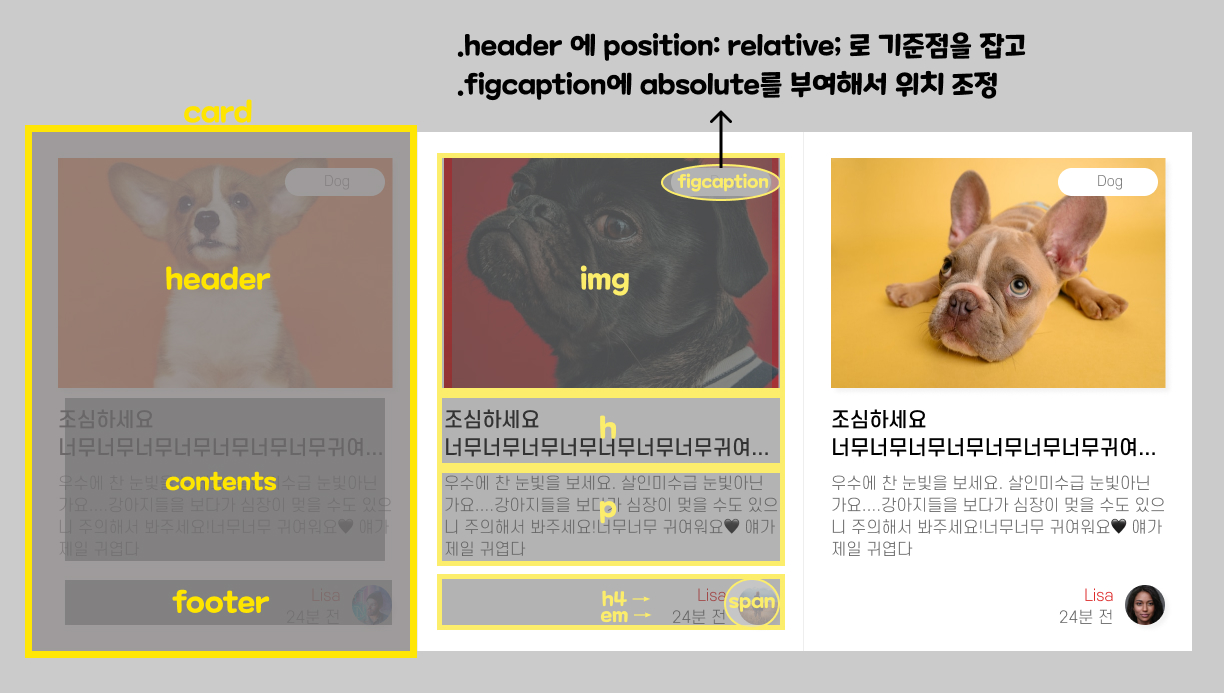
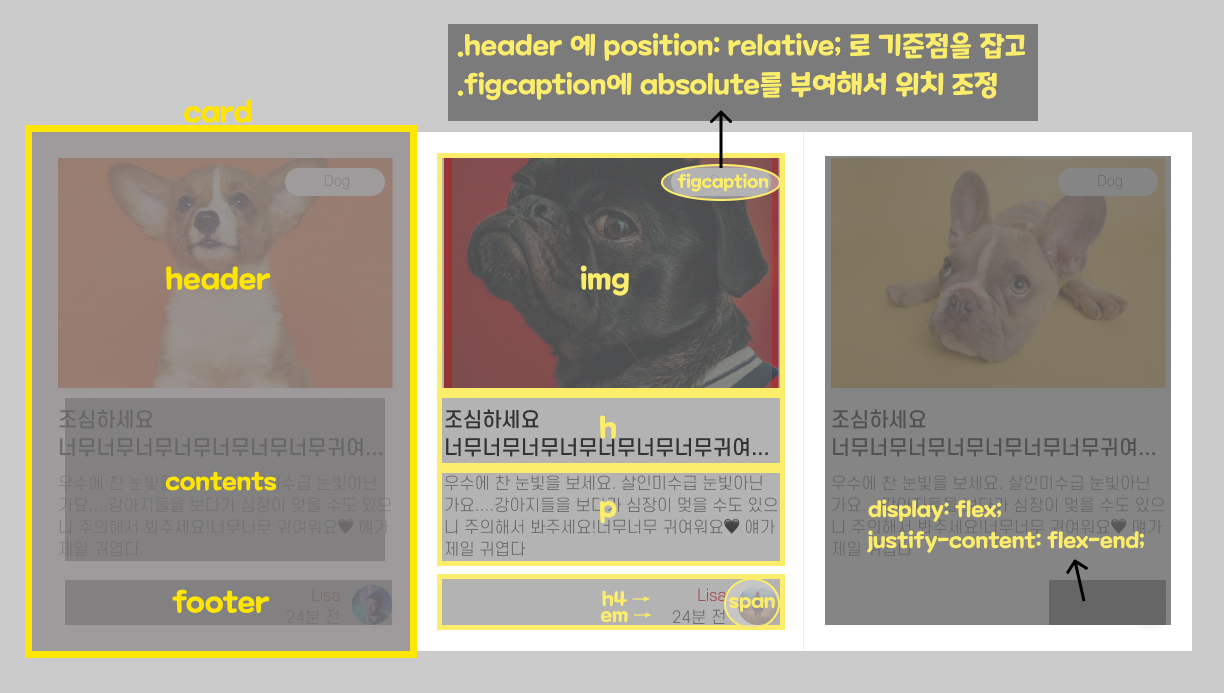
220811
블로그 정리 끝

Changed region(s): [[0.652, 0.2121, 0.9624, 0.9091], [0.3415, 0.0303, 0.8693, 0.1818]]

diff --git a/javascript/study/join.html b/javascript/study/join.html
@@ -14,7 +14,7 @@
         color: #fff;
     } 
     .t_table tbody tr .t_hoverE:hover {
-        color: #000;
+        color: rgb(255, 153, 0);
         background-color: rgb(245, 245, 245);
         cursor:help;
     }
@@ -69,13 +69,66 @@
             <h2 class="t_tit">배열 메서드</h2>
             <p class="t_box">
                 배열은 다양한 메서드를 제공합니다. 그 중에서 오늘은
+                <br>기본적인 배열의 길이를 구하는 .length와
                 <br>요소들을 연결해서 하나의 문자열로 만들 수 있는 join()과 
                 <br>배열 끝의 데이터를 조정할 수 있는 push()/pop()에 대해서 공부하겠습니다.
             </p>
 
             <hr>
+            <h3 class="t_tit2">01_ length</h3>
+            <p class="t_desc2">
+                length 속성은 배열의 코드 유닛 수를 구해서 숫자로 반환합니다.
+                빈 문자열일 경우에는 0을 반환합니다.
+            </p>
+            <div class="t_code">
+<pre><code  class="language-js">//01
+const arrNum = [100, 200, 300, 400, 500];
 
-            <h3 class="t_tit2">01_ join()</h3>
+//02
+const arrTxt = ['a', 'b', 'c', 'd', 'f'];
+
+//03
+const arr = [1, 2, ['a', 'b']];
+</code></pre>
+            </div>
+            <div class="result">
+                <p class="t_desc"> 리턴값(결과)는 마우스를 갖다대면 보여요!</p>
+                <table class="t_table">
+                    <colgroup>
+                        <col style="width:4%">
+                    </colgroup>
+                    <thead>
+                        <tr>
+                            <th>번호</th>
+                            <th>기본값</th>
+                            <th>메서드</th>
+                            <th>리턴값</th>
+                        </tr>
+                    </thead>
+                    <tbody>
+                        <tr class="ce">
+                            <td>1</td>
+                            <td>[100, 200, 300, 400, 500]</td>
+                            <td>length</td>
+                            <td class="t_hoverE">5</td>
+                        </tr>
+                        <tr class="ce">
+                            <td>2</td>
+                            <td>['a', 'b', 'c', 'd', 'f']</td>
+                            <td>length</td>
+                            <td class="t_hoverE">5</td>
+                        </tr>
+                        <tr class="ce">
+                            <td>3</td>
+                            <td>[1, 2, ['a', 'b']]</td>
+                            <td>length</td>
+                            <td class="t_hoverE">3</td>
+                        </tr>
+                    </tbody>
+                </table>
+            </div>
+            <!-- /01 -->
+            <h3 class="t_tit2">02_ join()</h3>
             <p class="t_desc2">
                 join()메서드는 배열의 <i>모든 요소들을 연결해서 하나의 문자열</i>로 만드는 역할을 합니다.
                 ()안에는 배열의 각 요소들을 구분할 문자열을 넣습니다. 생략할 경우 배열의 원소들을 쉼표로 구분짓습니다.
@@ -131,9 +184,9 @@ const text4 = arrNum.join('-');         //4
                     </tbody>
                 </table>
             </div>
-            <!-- /01 -->
+            <!-- /02 -->
             
-            <h3 class="t_tit2">02_ push() / pop()</h3>
+            <h3 class="t_tit2">03_ push() / pop()</h3>
             <p class="t_desc2">
                 <b>push()메서드</b>
                 <br>배열의 끝에 한개 이상의 요소를 <i>추가</i>하고 변경된 배열의 <i>길이</i>(.length)를 반환합니다.
@@ -182,7 +235,7 @@ const arrPush2 = arrNum2.pop();         //2
                     </tbody>
                 </table>
             </div>
-            <!-- /02 -->
+            <!-- /03 -->
             
                   
         </div>

diff --git a/site/study/blog_CT03.html b/site/study/blog_CT03.html
@@ -47,20 +47,29 @@
             </figure>
             <div class="t_desc">
                 시멘틱 태그를 사용한 이후엔 h태그가 필수적으로 와야 하는데요. 그래서 html소스의 &lt;section&gt;이후에 h태그를 사용했습니다. 하지만 저희는 이 h태그를 보여주면 안되겠죠?
-                그래서 이번엔 class="<i>blind</i>"를 사용해보겠습니다.
+                그래서 이번엔 이 h태그에 class="blind"를 부여해서 <i>blind</i>라는 css속성을 사용해보겠습니다.
+                <br>그리고, footer부분의 배치가 애매하죠? 저도 어려워요...😥 오른쪽부터 배치될 수 있게 하기 위해 새로운 justify-content 속성인 flex-end를 사용해봐요.
+                <i>justify-content: flex-end;를 사용하면 flex컨테이너의 뒤쪽부터 정렬</i>이 됩니다.
             </div>
-            <h3 class="t_tit2">IR 효과</h3>
+            <h3 class="t_tit2">CSS속성 : blind</h3>
             <p class="t_desc2">
-                IR 기법은 이미지 대체 텍스트를 제공하기 위한 CSS 기법으로 다양한 CSS기법을 사용하여 이미지 대체 텍스트를 제공할 수 있습니다.
+                이름 그대로 시각적으로 보이지 않게 하기 위한 css속성을 부여했습니다. 속성 값은 아래를 참고하세요!
             </p>
-            <h4 class="t_tit3">- Phark Method</h4>
-            <p class="t_desc">
-                의미 있는 이미지의 대체 텍스트를 제공하는 경우 : 이미지로 대체할 엘리먼트에 배경이미지를 설정하고 글자는 text-indent를 이용하여 화면 바깥으로 빼내어서 보이지 않게 하는 방법입니다.
+            <p class="t_box">
+                .blind {
+                <br>&nbsp;&nbsp;&nbsp;&nbsp;position:absolute;
+                <br>&nbsp;&nbsp;&nbsp;&nbsp;clip:rect(0 0 0 0);                 
+                <br>&nbsp;&nbsp;&nbsp;&nbsp;width:1px;
+                <br>&nbsp;&nbsp;&nbsp;&nbsp;height:1px;
+                <br>&nbsp;&nbsp;&nbsp;&nbsp;margin:-1px;
+                <br>&nbsp;&nbsp;&nbsp;&nbsp;overflow:hidden;
+                <br>}
+                <br><br>// 포토샵의 클리핑 마스크처럼 요소의 특정 부분만 나오도록 설정하는 속성입니다. 위치값 네군데가 0이므로 표현이 되지 않겠네요.마찬가지로 width, height을 1로부여하고
+                margin을 -1로 부여해서 overflow:hidden으로 넘치는 부분은 표현하지 않게하여 결과적으로는 <i>보여지지 않게 됩니다.</i>
             </p>
-            <h4 class="t_tit3">- PWA IR</h4>
-            <p class="t_desc">
-                대체 텍스트로 이미지를 off해도 대체 텍스트를 보여주고자 할때 : 이미지로 대체할 엘리먼트에 배경이미지 설정 후 글자는 span으로 감싸고 z-index: -1;을 이용하여 화면에 안보이게 설정
-            </p>
+            <figure class="card__header">
+                <img src="../cardType/img/card_type03_blog2.jpg" alt="레이아웃2 이미지">
+            </figure>
             <h3 class="t_tit2">CSS 속성</h3>
             <div class="t_code">
 <pre><code class="language-css">/* fonts */
